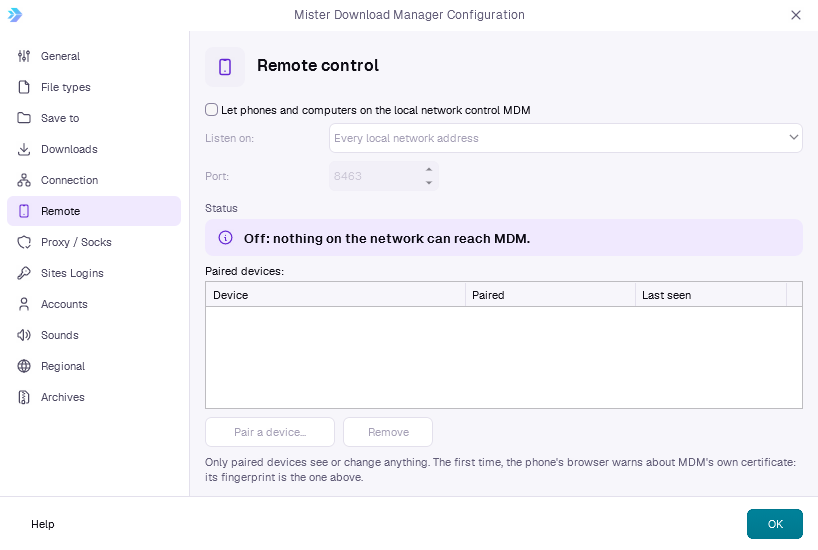
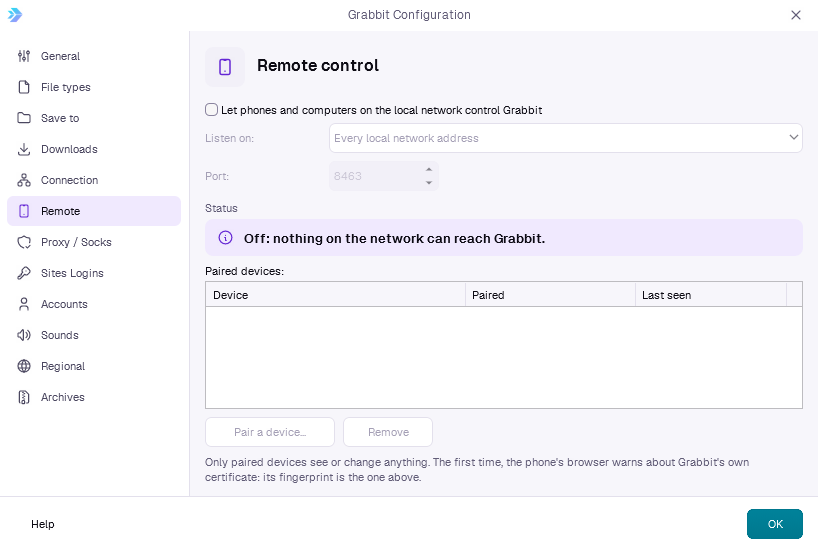
docs(10): the README's, docs' and site's windows taken again with Grabbit's name
main (light, dark), Options (Connection, Remote), Scheduler, Speed Limiter and the crash report, and the site's main, Options and Scheduler pairs; the social card says Grabbit. The unreferenced Chrome and Firefox logos go.

diff --git a/tools/readme/social.py b/tools/readme/social.py
@@ -40,7 +40,7 @@ def main():
     # The app icon, built from art/grabbit.svg by tools/icon/build_icon.py.
     icon = Image.open(ROOT / "crates/app/assets/icons/app/mdm-256.png").convert("RGBA").resize((112, 112), Image.LANCZOS)
     card.paste(icon, (64, 56), icon)
-    draw.text((196, 58), "Mister Download Manager", font=font("segoeuib.ttf", 56), fill=INK)
+    draw.text((196, 58), "Grabbit", font=font("segoeuib.ttf", 56), fill=INK)
     draw.text((198, 132), "Downloads faster than IDM. Free, forever.", font=font("segoeui.ttf", 34), fill=ACCENT)
     draw.text((66, 196), "For Windows  ·  no ads, no trial, no sign-up",
               font=font("segoeui.ttf", 24), fill=MUTED)
